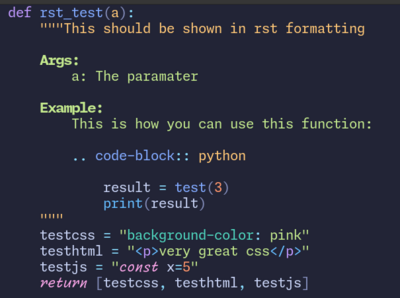
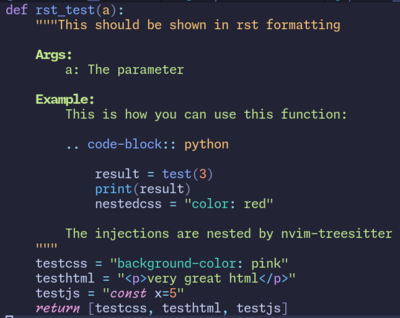
README, screenshot, InjectemToggle sets injections

diff --git a/examplefiles/example.py b/examplefiles/example.py
@@ -2,7 +2,7 @@ def rst_test(a):
     """This should be shown in rst formatting
 
     Args:
-        a: The paramater
+        a: The parameter
 
     Example:
         This is how you can use this function:
@@ -11,8 +11,11 @@ def rst_test(a):
 
             result = test(3)
             print(result)
+            nestedcss = "color: red"
+
+        The injections are nested by nvim-treesitter
     """
     testcss = "background-color: pink"
-    testhtml = "<p>very great css</p>"
+    testhtml = "<p>very great html</p>"
     testjs = "const x=5"
     return [testcss, testhtml, testjs]

diff --git a/README.md b/README.md
@@ -1,12 +1,4 @@
- <!-- # This is work in progress -->
-<!-- Experiencing minor difficulties... Please do not use yet. It was a mistake to publish as yet -->
-<!---->
-<!-- <p align="center"> -->
-<!--   <img src="https://assets.teenvogue.com/photos/56ba48d8dcd8bb325b37d601/master/w_1600%2Cc_limit/derekworkout.gif"/> -->
-<!-- </p> -->
-
-
-# InjectMe - Other language highlights in your code
+# injectme.nvim - Language highlights in your code
 
 With [neovim](https://neovim.io/), you can show parts of your code as other code languages, e.g. a string that contains javascript code, or a python docstring that contains restructured text:
 
@@ -37,7 +29,7 @@ Requires Neovim >= v0.9.4
     "nvim-telescope/telescope.nvim",
   },
   -- This is for lazy load and more performance on startup only
-  cmd = { "InjectmeToggle", "InjectmeSave", "InjectmeInfo" },
+  cmd = { "InjectmeToggle", "InjectmeSave", "InjectmeInfo" , "InjectmeLeave"},
 }
 ```
 
@@ -45,11 +37,12 @@ Requires Neovim >= v0.9.4
 
 - `InjectmeToggle`: With no arguments, the picker window is started. With tab completion, you can also directly set lanuage and injection, e.g. `:InjectmeToggle python rst_for_docstring`
 - `InjectmeSave`: Saves the injections settings to your runtime. When you are happy with this setting and do not want to change it dynamically any more, you can safely delete the plugin, the injections will continue to work.
-- `InjectmeReset`: The plugin saves your settings locally in the `.local/share/nvim/state_injectme.lua` file. When you want to delete the plugin, you can use this to clean up. 
+- `InjectmeLeave`: The plugin saves your settings locally in the `.local/share/nvim/state_injectme.lua` file. When you want to delete the plugin, you can use this to clean up. 
+- `InjectmeInfo`: Display current configured injections in the messages
 
 ## Available custom injection queries
 
-*🚧 This is only stuff for my use cases, please [contribute](#Contribution) 🚧*
+*🚧 This is only stuff for my use cases or for testing, please [contribute](#Contribution) 🚧*
 
 ### python
 - `rst_for_docstring`: Python docstring is shown as restructured text
@@ -101,10 +94,10 @@ Here are the steps, if you want to do this without this plugin:
 1. Open the file injections files by `:TSEditQueryUser injections markdown`, for example
 1. Put your queries there and do not forget the `;extends` comment on top, when you want to keep the standard queries provided by nvim-treesitter
 
-💡 Another reason: I wanted to try neovim plugin after watching this [YouTube video](https://www.youtube.com/watch?v=n4Lp4cV8YR0). 
+💡 Another reason: I was inspired to make a plugin by this [YouTube video about plugin development](https://www.youtube.com/watch?v=n4Lp4cV8YR0). 
 
 ## Contribution
 All contributions are welcome! 
 - In particular, please submit useful injections in the file [preset_injections.lua](lua/injectme/preset_injections.lua).
-- If you don't change injections, all your custom injections are read from your `queries` folders in your runtime as well and can be toggled. New injections are only included in the above settings file after it was deleted first (with `InjectmeReset`).
+- If you don't change injections, all your custom injections are read from your `queries` folders in your runtime as well and can be toggled. New injections are only included in the above settings file after it was deleted first (with `InjectmeLeave`).
 
